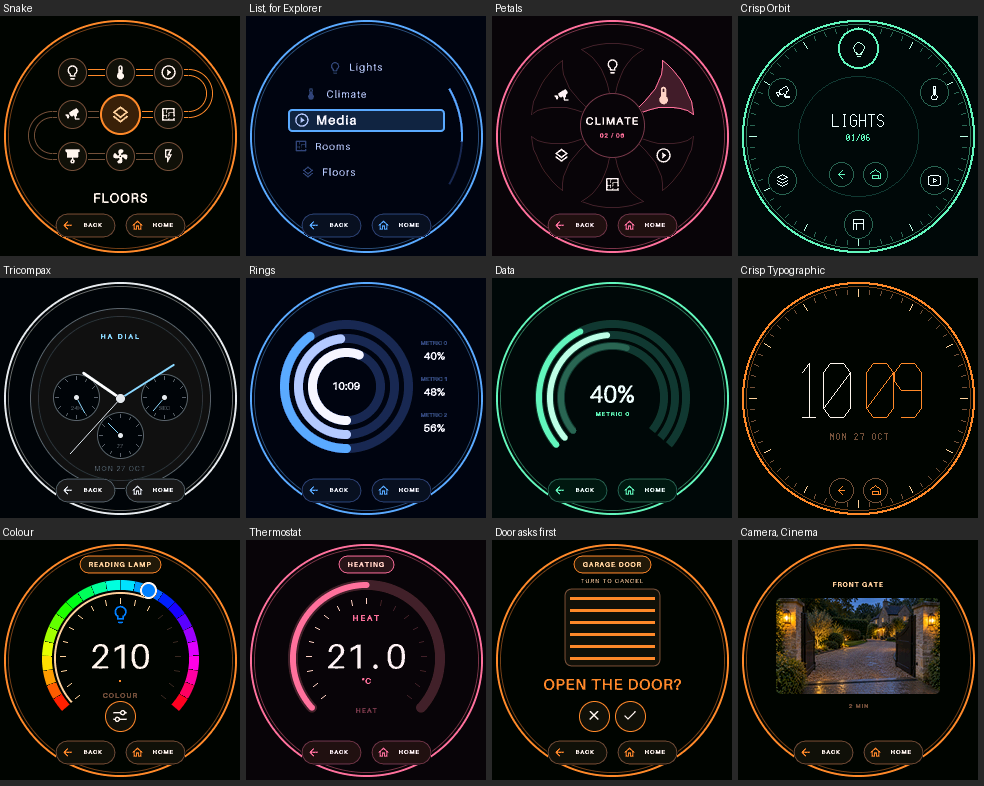
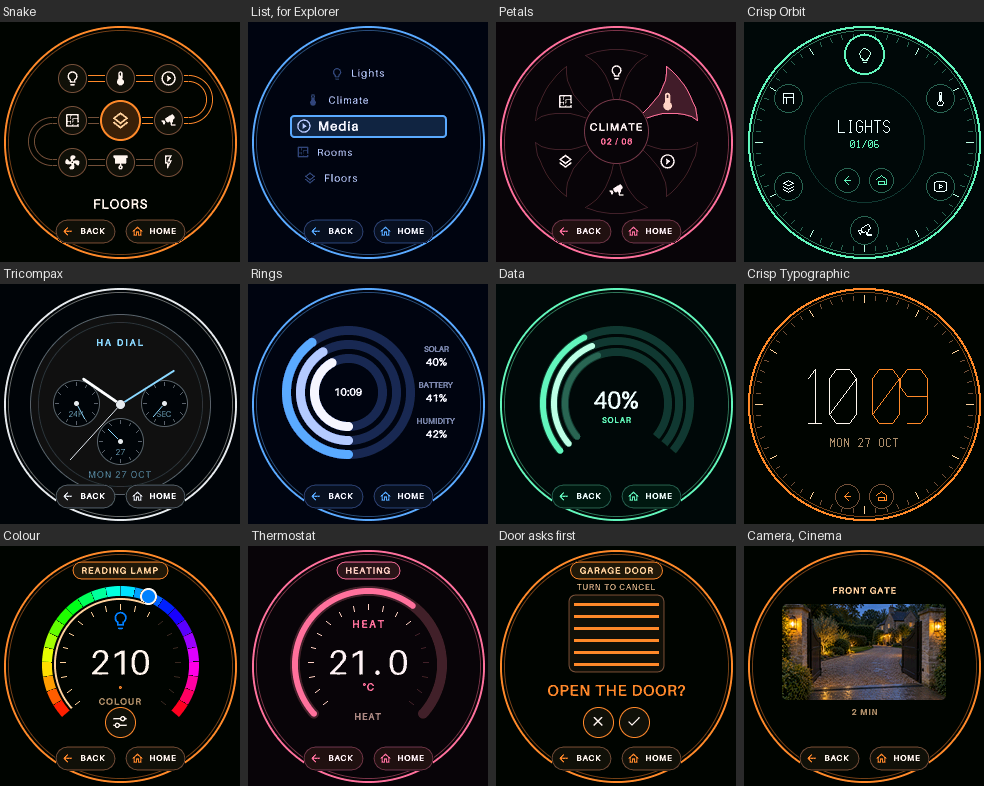
Release 2026.11.1 for the Marketplace
Add what the Marketplace (HACS, built into Home Assistant from 2026.11) needs:
hacs.json, manifest codeowners and issue_tracker, and a workflow running the
HACS action and hassfest. The README leads with the Marketplace install and
its screenshots come from the current renderer. The firmware's Waiting for HA
screen no longer tells people to add a dashboard card.

This is a soft launch: some light controls still lag, and the README says so.

Integration 2026.11.1, firmware 2026.11.1.

diff --git a/components/ha_dial/setup.cpp b/components/ha_dial/setup.cpp
@@ -80,7 +80,7 @@ void HaDial::draw_setup_(display::Display &it) {
         break;
       case SetupScreen::WAITING_HA:
         title = "Waiting for HA";
-        lines = {address, "ESPHome API connected", "Add HA Dial Server", "then add HA Dial card", "to a dashboard", "Hold 5s: Wi-Fi reset"};
+        lines = {address, "ESPHome API connected", "Add HA Dial Server,", "then build pages in", "the HA Dial panel", "Hold 5s: Wi-Fi reset"};
         break;
       case SetupScreen::READY:
         return;

diff --git a/CHANGELOG.md b/CHANGELOG.md
@@ -1,6 +1,9 @@
 # HA Dial Server changelog
 
-## 2026.10.1-b31
+## 2026.11.1
+
+- Install from the Marketplace (HACS): the repository now has the files and checks it needs. Home Assistant 2026.10 or later is required.
+- No firmware change is needed, but firmware 2026.10.1-b7 corrects the setup screen's advice.
 
 - Make small text easier to read on the Dial. Labels, captions, units, details and Back and Home are 2 px larger by default, and text is no longer shrunk below 8 px to fit: it's shortened with two dots instead. A page that saved its own label, detail or unit size keeps it.
 - Draw dim captions in a brighter colour. They used the quiet colour, which is meant for lines and was too faint for text in every theme. Setting a quiet colour no longer changes caption text; the secondary colour does.
@@ -8,107 +11,65 @@
 - Hiding the outer ring, or slimming it, now lets the screen grow into the room: everything is drawn up to 7% larger about the centre. Before, only the ring went and the space stayed empty. Camera and photo screens don't grow, because their picture is a fixed size. A heavier frame doesn't shrink anything.
 - No firmware change is needed.
 
-## 2026.10.1-b30
-
 - Keep each Data face's requested history range separate, including when sensor events update the charts.
 - Capture a camera freshly on entry even when another camera's capture is still running.
 - Use the full browser width for the panel and keep its preview slider and editor columns steady while zooming.
-
-## 2026.10.1-b29
 
 - Fix pale colours when turning a light that was in white. Colour now starts at full saturation unless the light is already in colour.
 - A light's rounding no longer stops a colour or white value counting as reached, including around 359° to 0°, and a control shows what was asked for once it's close.
 - Asking for a value a control already holds no longer leaves it pending. The Dial's new firmware relies on this.
 - HA logs a warning when a Dial gives up on a value.
 
-## 2026.10.1-b28
-
 - Lights that support them now offer tunable white and colour. A button on the control moves turning between brightness, white and colour, offering only what the light can do. The ring shows the real range in colour, in every light style. No firmware change is needed.
-
-## 2026.10.1-b27
 
 - Fix the Operate live house warning never appearing: each redraw of the preview blanked and hid it.
 - The help line under Try your Dial now wraps instead of widening the panel.
 - Doors, gates and other covers that need confirming now say their state in words, such as CLOSED or OPENING 40%, and ask in a large line, such as OPEN THE DOOR?. Covers you can turn keep their live number, in a clear band in the graphic.
 - On every control, the confirm question replaces the state line instead of overlapping it, and action buttons no longer share a touch area with Back and Home.
 
-## 2026.10.1-b26
-
 - Internal: the websocket commands moved out of the integration's main file into `commands/`. No change in behaviour.
-
-## 2026.10.1-b25
 
 - New card setting, Follow the Dial's screen, on by default. Off, the card browses on its own, so using a dashboard doesn't disturb the Dial on the wall. It still operates real devices, and it follows saved changes to the Dial's pages.
 
-## 2026.10.1-b24
-
 - A dashboard card's only setting is now which Dial it shows. Its pages, theme, template and Preview options are gone, and saving a card clears any it still held. All editing is in the panel.
 - A dashboard card keeps its zoom slider, starts at 100%, and remembers its size per Dial in that browser, separately from the panel's preview. A new card starts on your first Dial.
-
-## 2026.10.1-b23
 
 - A dashboard card can no longer replace a Dial's saved pages. A card set to a real Dial used to send its own copy of the pages whenever it loaded, which overwrote the Dial's tree. It now shows the pages saved on that Dial, and HA refuses a save that doesn't come from the panel.
 - Unsaved work in the panel survives leaving the page: it's kept in your browser and restored when you return, with a Discard changes button.
 - A dashboard card starts at 100% zoom. Only the panel's preview remembers its size.
 - New Operate live house switch beside Save and Reset, off whenever the panel opens. While it's on, the preview's controls operate real devices and the preview shows a warning. Page edits still wait for Save.
 
-## 2026.10.1-b22
-
 - A hand-built page can now go past 8 items in a style that scrolls or pages: List, Grid, Snake, Compass, Ribbon, Rolodex or Pager. Its style gallery offers only those while it holds more than 8.
 - Explorer now offers a camera style and picture treatment for its cameras and images.
 
-## 2026.10.1-b21
-
 - New Explorer: an item you add to any page, beside your own items and pages, that fills itself from your floors, areas and entities. It can cover the whole home, one floor or one area. Pages of up to 8 items can use any navigation style; longer ones use a style that scrolls or pages. Each page can have its own look, or Random shows off every style. The panel lists what was left out and why, and locks, alarms and doors always ask for confirmation.
 - The Pager style's dots no longer overflow on a long page.
-
-## 2026.10.1-b20
 
 - Turning the dial no longer moves a cover that needs confirming; opening and closing still ask. Stop on a cover now acts at once, so stopping a moving door never waits on a prompt.
 - An entity whose icon isn't in the bundled set now falls back to its domain's icon. Before, one such icon made the whole page tree fail to save.
 - When the page tree is rebuilt, the selection stays on the same item, and having Device settings open no longer causes an error.
 
-## 2026.10.1-b19
-
 - New Snake navigation: icons in rows joined by U-turns, read in snake order. Choose icons per row or along the path, including on the returns, with controls for turn extension, whole-snake twist, row length, turn radius, position, single or double edges, width, gap, clearance and colours. Past what fits, it scrolls a row at a time.
-
-## 2026.10.1-b18
 
 - Reset Dial is always available once a Dial is chosen. A finished save used to leave it greyed out until the next edit, and a save in progress blocked it.
 
-## 2026.10.1-b17
-
 - Every camera and image now offers colour, mono, tint and dither, in either drawing mode. This replaces the Colour switch, and Crisp no longer forces a dither.
-
-## 2026.10.1-b16
 
 - Fix setting groups running off the edge of the Options dialog on a phone, and list a style's own settings first.
 
-## 2026.10.1-b15
-
 - Add a Colour switch to the Portal and Radar camera styles.
-
-## 2026.10.1-b14
 
 - Fix camera gallery thumbnails all showing the selected style's picture.
 
-## 2026.10.1-b13
-
 - Add a Zoom slider to the preview, enlarging the whole rectangle up to 400% with panning where it no longer fits. Each browser remembers its own zoom. This replaces the card editor's Preview zoom setting, and a saved `zoom` value is ignored.
-
-## 2026.10.1-b12
 
 - **Breaking: a page saved with a camera style no longer loads.** Add the camera to the page as an entity instead; there is no migration.
 - Cameras and image entities are now added to the tree like any other entity, with Portal, Cinema and Radar as their styles.
 - Portal's two action buttons are entities you bind, and each opens that entity's own control, with Back returning to the camera. Opening a control never operates it.
 
-## 2026.10.1-b11
-
 - **Requires firmware 2026.10.1-b5 for pictures.** Pages without a picture still work on b4.
 - Add Camera faces (Portal, Cinema, Radar) and watch Photos, from camera or image entities, captured on page entry and on bound entity events. A capture failure keeps the last picture and says so.
 - The Dial must reach HA's internal URL over plain HTTP. Frames are served at an unauthenticated, expiring, single-frame URL.
-
-## 2026.10.1-b10
 
 - **Breaking: requires firmware 2026.10.1-b4.** HA now emits scene version 5, which older firmware rejects while keeping its last screen. Upload the firmware, then restart HA and refresh the browser.
 - Rebuild Crisp as true line-step drawing, with single-stroke type and line icons, and Smooth as real anti-aliasing on every shape. Crisp no longer cuts labels off.
@@ -118,15 +79,11 @@
 - Add about 50 style settings covering padding, sizes, gaps, widths, borders and positions. The dialog shows only what the current style reads and saves only what you change.
 - Faces other than chronographs now update once a minute, not every second.
 
-## 2026.10.1-b9
-
 - Add all four Atlas chronographs: Tricompax, Worldtimer, Skeleton and Moonphase, with real time, IANA zones, optional HA moon and reserve sensors, and scheduled updates with subscription cleanup.
 - Add clock settings and HA-rendered gallery previews; retain the same resolved browser/device scene.
 
 - Introduce scene v4 polylines for HA-resolved curved Petals outlines without exceeding the element budget; requires paired firmware.
 - Draw navigation ornaments behind the centre, contain Petals labels and move its settings cog clear of the destination icons.
-
-## 2026.10.1-b8
 
 - Add centre radius and gauge radius and width controls to the appearance dialog.
 - Draw crisp text, digits and icons directly at display resolution instead of thresholding smoothed masks.
@@ -134,29 +91,17 @@
 - Keep the appearance dialog stable between tabs and show an HA-rendered live preview beside its controls.
 - Add a confirmed per-Dial configuration reset that removes saved pages and clears the device display without changing Wi-Fi or firmware.
 
-## 2026.10.1-b7
-
 - Replace browser confirmations with styled dialogs; choose whether to keep or remove nested subpages when removing a page.
-
-## 2026.10.1-b6
 
 - Watch visibility condition entities directly and show live condition results using Home Assistant template subscriptions.
 - Use Home Assistant state selectors and condition icons, with tabbed dialogs, sliders, switches and colour controls.
 
-## 2026.10.1-b5
-
 - Add server-rendered Atlas style and theme galleries and inline visibility condition editing.
 - Support fixed time and weekday visibility conditions, with scheduled updates at time boundaries.
 
-## 2026.10.1-b4
-
 - Give the configuration panel Casa Mia styling, a page tree and focused inspector, and keep dialog actions visible while scrolling.
 
-## 2026.10.1-b3
-
 - Add an admin-only configuration panel with per-Dial drafts and an interactive preview.
-
-## 2026.10.1-b2
 
 - Requires paired b2 firmware for signed/decimal local feedback and the gated local settings page; restart HA after deployment and refresh the browser.
 - Add modal page/entity editors, 21 HA domains, two Atlas families with all eight navigation layouts and Instrument/Editorial presentations, and read-only sensor variants.
@@ -164,8 +109,6 @@
 - Add event-driven state/numeric/template/logical visibility with nearest surviving ancestor navigation.
 - Add explicit lock/alarm confirmations and keep PIN-protected actions unavailable; drafts remain isolated.
 - Add a root-only, selectable settings cog gated by the persisted ESPHome Show Settings switch.
-
-## 2026.10.1-b1
 
 - Rename the shared integration HA Dial Server and explain first-run setup and recovery.
 - Remove saved server definitions on integration removal, retain ordinary reloads, and clear live screens on unload with paired firmware.
@@ -179,3 +122,4 @@
 - Use the manifest version for the dashboard card's cache key.
 
 Previous development builds used 0.x versions; the last paired update was 0.4.0.
+

diff --git a/README.md b/README.md
@@ -8,7 +8,7 @@ You arrange pages and controls in a Home Assistant panel, and the Dial shows the
 
 *Every screen above comes from the same renderer the Dial uses, with invented names.*
 
-> **Status: prototype.** This is built and tested in development, but it's early. There's no HACS package or release yet, and much of it has only run against test stand-ins. See [What hasn't been proven yet](#what-hasnt-been-proven-yet).
+> **Status: first release.** It runs on a real Dial in a real home, but it's young, and some parts have mostly been tested against stand-ins for HA. See [What hasn't been proven yet](#what-hasnt-been-proven-yet), and please [report anything odd](https://github.com/gazoodle/ha-dial/issues).
 
 ## What it does
 
@@ -42,11 +42,15 @@ The Dial receives only what it needs: final geometry, colours, text masks and to
 
 ## Installation
 
-You need an M5Stack Dial v1.1, Home Assistant with the ESPHome integration, and a Mac or Linux machine with Python 3.11 or later. It's developed against Home Assistant 2026.10.
+You need an M5Stack Dial v1.1, Home Assistant 2026.10 or later with the ESPHome integration, and, to build the firmware, a Mac or Linux machine with Python 3.11 or later and a USB-C cable.
 
 ### 1. Flash the firmware
 
+There's no ready-made firmware image yet, so you build it from this repository:
+
 ```shell
+git clone https://github.com/gazoodle/ha-dial.git
+cd ha-dial
 python3 -m venv .venv
 .venv/bin/pip install -e '.[dev]'
 tools/flash /dev/cu.usbmodem… ha-dial-connected.yaml
@@ -62,13 +66,15 @@ Each Dial needs its own ESPHome device name.
 
 ### 2. Install the integration
 
-Copy `custom_components/ha_dial` into your HA config folder, or point the deploy tool at a mounted config share:
+**From the Marketplace** (HACS, built into Home Assistant from 2026.11):
 
-```shell
-.venv/bin/python tools/deploy.py /path/to/ha/config
-```
+[![Open your Home Assistant instance and open this repository in the Marketplace.](https://my.home-assistant.io/badges/marketplace_repository.svg)](https://my.home-assistant.io/redirect/marketplace_repository/?owner=gazoodle&repository=ha-dial&category=integration)
 
-Restart Home Assistant. Later updates raise a Repair when a restart is needed. Refresh your browser after each one.
+Until HA Dial is in the Marketplace's own list, the button offers to add this repository first. With HACS on an older Home Assistant, add `https://github.com/gazoodle/ha-dial` as a custom repository of type **Integration**. Then download **HA Dial** and restart Home Assistant.
+
+**By hand:** copy `custom_components/ha_dial` into the `custom_components` folder of your HA config, and restart Home Assistant.
+
+Refresh your browser after installing or updating.
 
 ### 3. Connect everything
 
@@ -79,7 +85,7 @@ Restart Home Assistant. Later updates raise a Repair when a restart is needed. R
 5. **Refresh your browser.** **HA Dial** then appears in the sidebar, for administrators.
 6. **Build your pages.** Open **HA Dial**, choose your Dial, add some pages and controls, then press **Save and apply**.
 
-The Dial shows **Waiting for HA** until it has pages. That screen still mentions adding a dashboard card, but you don't need one.
+The Dial shows **Waiting for HA** until it has pages.
 
 ## The panel
 
@@ -227,7 +233,7 @@ Most of this has been tested through automated checks, stand-ins for HA and comp
 - Explorer on a real home, including rebuilds and HA restarts.
 - Pictures from real cameras, and the Dial reaching HA across subnets.
 - White and colour on real lights, which round values differently.
-- How turning feels on the Dial, and suitable values for its settings.
+- How turning feels on the Dial, and suitable values for its settings. Some light controls are known to lag behind the dial while you turn.
 - Live operation from the preview, and Follow Dial turned off.
 - Memory use and draw time on the Dial at its most complex screens.
 
@@ -240,6 +246,12 @@ tools/compile ha-dial-connected.yaml     # Full firmware build
 ```
 
 Some C++ pixel checks need ArduinoJson from a firmware build, and they're skipped until you've run one.
+
+To try a change on your own HA, point the deploy tool at a mounted config share. It raises a Repair in HA when a restart is needed:
+
+```shell
+.venv/bin/python tools/deploy.py /path/to/ha/config
+```
 
 | Path | Contents |
 | --- | --- |

diff --git a/firmware/CHANGELOG.md b/firmware/CHANGELOG.md
@@ -1,29 +1,21 @@
 # HA Dial firmware changelog
 
-## 2026.10.1-b6
+## 2026.11.1
+
+- The **Waiting for HA** screen now says to build pages in the HA Dial panel, instead of adding a dashboard card, which isn't needed.
 
 - From the first detent the Dial owns a control's value, and HA can't change the screen until they agree, so turning no longer stutters. It sends once the value settles, resends if HA hasn't acknowledged it, waits longer if HA has, and after three resends lets HA win and shows NOT APPLIED. All four are tunable.
 
-## 2026.10.1-b5
-
 - Add scene version 6 image frames: fetched from HA on a background task into a fixed second buffer, swapped only after length and CRC pass, released when no scene needs them, and reported to HA with free heap.
-
-## 2026.10.1-b4
 
 - Add scene version 5: filled polygons, multi-line segments, solid bands, round caps and integer coverage blending against a declared colour. Larger masks and digit cells are accepted. Requires HA Dial Server 2026.10.1-b10.
 
-## 2026.10.1-b3
-
 - Accept scene v4 bounded polylines, reject invalid points and join HA-supplied geometry with the shared Bresenham raster. Retain v1–v3 support.
-
-## 2026.10.1-b2
 
 - Accept scene v3 signed/decimal glyph feedback and normalised gauge ranges, retaining v1/v2 support.
 - Guard restored settings callbacks until UI startup, retain power-hold setup order and give reset confirmation priority over settings input.
 - Add persistent Show Settings config switch, root settings handshake and local IP/version/uptime/network/touch diagnostics.
 - Keep settings available from the offline fallback only when enabled; disabling closes it, and physical Wi-Fi recovery remains independent.
-
-## 2026.10.1-b1
 
 - Add network/API/HA setup guidance, local confirmed Wi-Fi reset and native restart/recovery buttons.
 - Hide cached screens on disconnect and honour revision-checked server screen-clear commands.
@@ -33,3 +25,4 @@
 - Report the same version in ESPHome project metadata and the startup screen.
 
 Previous development builds used 0.x versions; the last paired update was 0.4.0.
+

diff --git a/BACKLOG.md b/BACKLOG.md
@@ -216,10 +216,11 @@ Consider whether a concrete use case needs the Dial to control local hardware wh
 unavailable. If so, design ownership and state reconciliation on reconnect before changing the
 current HA-owned control architecture.
 
-## Dial setup text (2026-11-02)
+## Light control lag (2026-11-20)
 
-The **Waiting for HA** screen in `components/ha_dial/setup.cpp` still says to add a dashboard card. Pages now come from
-the panel, so it should say that instead. It needs a firmware build, so take it with the next one. The README notes it.
+The owner finds some light controls laggy on the Dial. Accepted for the soft launch, but it blocks anything
+wider (AGENTS.md, Rotary UX). Not yet known: which styles and modes (brightness, white, colour), and which
+lights. Measure before changing anything: HA's value-owner logs and the timings in README's How turning feels.
 
 ## Local drawing of state changes (2026-11-01)
 

diff --git a/HANDOVER.md b/HANDOVER.md
@@ -1,6 +1,13 @@
-# Handover — 2026-11-13
+# Handover — 2026-11-20
 
 ## Current state
+
+Release 2026.11.1 (integration and firmware), 2026-11-20, a soft launch through the Marketplace
+(HACS, built into HA from 2026.11) with light lag as a known issue (AGENTS.md, Rotary UX amendment).
+It adds `hacs.json`, manifest `codeowners` and `issue_tracker`, `.github/workflows/validate.yaml` (HACS
+action and hassfest), a Marketplace-first README and a regenerated `docs/screens.png`. Firmware fixes the
+Waiting for HA text; compiled, not flashed. Integration not deployed since b31. The `hacs/default` pull
+request waits for the owner.
 
 Integration b31 (copied to HA on 2026-11-13 with approval, all 57 files verified, HA restart and
 browser refresh pending; it also carries b30) makes small text 2 px larger with an 8 px floor and gives

diff --git a/AGENTS.md b/AGENTS.md
@@ -161,6 +161,11 @@ after rotation stopped. That experience is unacceptable as the product UX, even 
 A unit test passing does not establish physical responsiveness: measure burst/release behaviour
 and verify it on the Dial before calling this UX complete.
 
+Amended 2026-11-20: the owner accepted a soft launch through the Marketplace (HACS) with some light
+controls still lagging, listed as a known issue in the README. The rule above still holds for anything
+wider than that, such as announcing it. Why: the owner wants real users' feedback first, and a soft
+launch is only found by people looking for it.
+
 ## Simulator controls (2026-10-27)
 
 Use smaller, translucent orange, nearly circular rotation arrows in the card's bottom corners,
